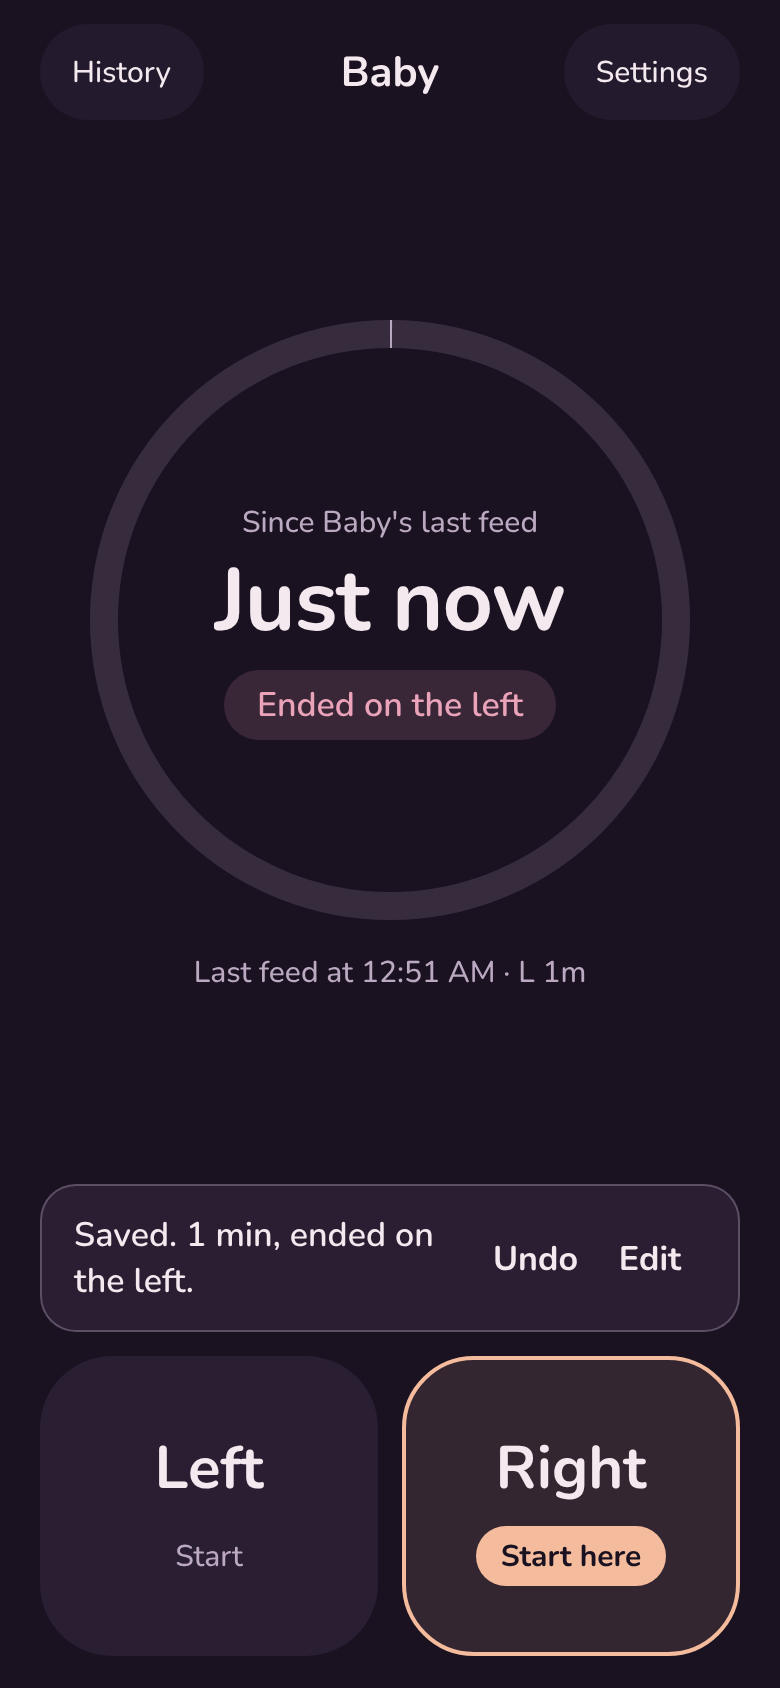
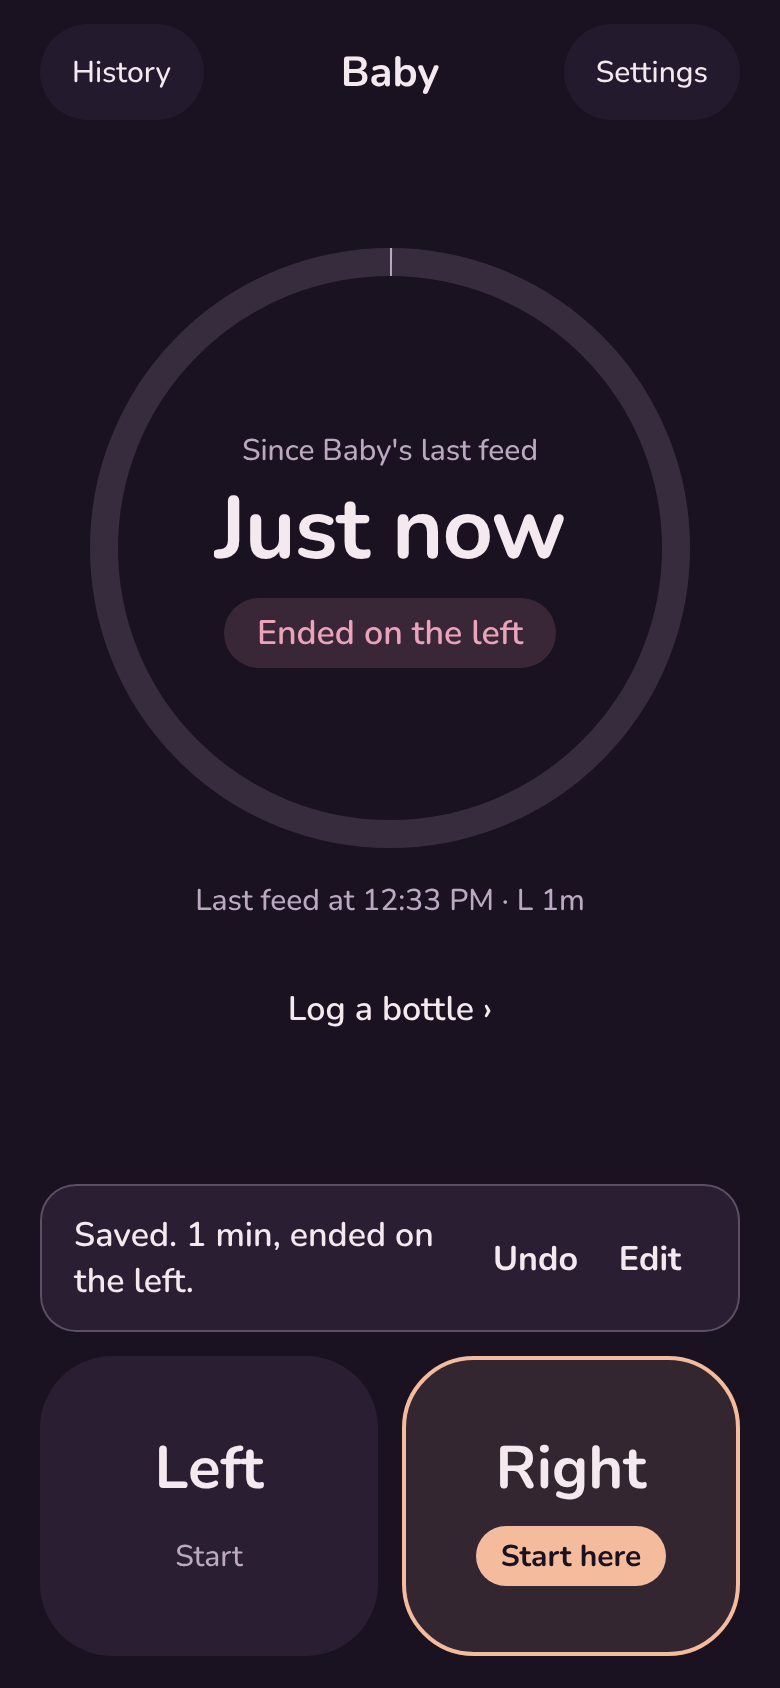
Phase 1: bottles, notes, week chart and timeline, baby age, two babies, daily reminders, phone theme
Claude-Session: https://claude.ai/code/session_01Uge6Tu9nfBMVmhGxJKiexz

Changed region(s): [[0.0923, 0.1232, 0.8923, 0.6161], [0.5538, 0.2464, 0.5846, 0.2773]]

diff --git a/src/components/Week.tsx b/src/components/Week.tsx
@@ -1,0 +1,140 @@
+import { useState } from 'react';
+import { Pressable, StyleSheet, View } from 'react-native';
+
+import { weekDays, type Block } from '../core/feeds';
+import { amount, dayLabel, span, spanWords } from '../core/format';
+import type { Feed, Units } from '../core/types';
+import { usePalette } from '../state/theme';
+import { radius, space, type, wash } from '../theme';
+import { Card, T } from './ui';
+
+const BAR_H = 120;
+const STRIP_H = 22;
+
+const short = (dayStart: number) => new Date(dayStart).toLocaleDateString(undefined, { weekday: 'short' });
+const feedsWord = (n: number) => `${n} ${n === 1 ? 'feed' : 'feeds'}`;
+
+/**
+ * The last seven days: time on the breast per day as bars, then each day's feeds laid on a 24 hour strip.
+ * Left and Right differ in height as well as colour, so they read apart without colour.
+ */
+export function Week({ feeds, now, units }: { feeds: Feed[]; now: number; units: Units }) {
+  const p = usePalette();
+  const days = weekDays(feeds, now);
+  const [picked, setPicked] = useState(days.length - 1);
+  const most = Math.max(...days.map((d) => d.breastMs), 1);
+  const sel = days[picked];
+
+  const summary = (i: number) => {
+    const d = days[i];
+    const bottles = d.bottleMl > 0 ? `, bottles ${amount(d.bottleMl, units)}` : '';
+    return `${dayLabel(d.dayStart, now)}, ${feedsWord(d.count)}, ${spanWords(d.breastMs)} on the breast${bottles}`;
+  };
+
+  const blockStyle = (b: Block) => {
+    const left = `${b.from * 100}%` as const;
+    const width = `${Math.max(b.to - b.from, 0.004) * 100}%` as const;
+    if (b.what === 'bottle') return [styles.block, { left, width: 3, top: 0, bottom: 0, backgroundColor: p.ink }];
+    if (b.what === 'L') return [styles.block, { left, width, top: 0, bottom: 0, backgroundColor: p.accent }];
+    return [styles.block, { left, width, top: STRIP_H * 0.4, bottom: 0, backgroundColor: p.peach }];
+  };
+
+  return (
+    <View style={{ gap: space.l, paddingTop: space.s }}>
+      <Card style={{ gap: space.m }}>
+        <T style={type.title} accessibilityRole="header">Time on the breast</T>
+        <T testID="week-picked" tone="muted" style={type.label} accessibilityLiveRegion="polite">
+          {dayLabel(sel.dayStart, now)} · {feedsWord(sel.count)} · {span(sel.breastMs) === 'just now' ? '0m' : span(sel.breastMs)}
+          {sel.bottleMl > 0 ? ` · Bottles ${amount(sel.bottleMl, units)}` : ''}
+        </T>
+        <View style={[styles.bars, { borderBottomColor: wash(p.muted, '40') }]}>
+          {days.map((d, i) => (
+            <Pressable
+              key={d.dayStart}
+              testID={`week-bar-${i}`}
+              onPress={() => setPicked(i)}
+              accessibilityRole="button"
+              accessibilityLabel={summary(i)}
+              accessibilityState={{ selected: i === picked }}
+              style={styles.barHit}
+            >
+              <View
+                style={[
+                  styles.bar,
+                  {
+                    height: Math.max((d.breastMs / most) * BAR_H, d.breastMs > 0 ? 4 : 0),
+                    backgroundColor: i === picked ? p.accent : wash(p.muted, 'A6'),
+                  },
+                ]}
+              />
+            </Pressable>
+          ))}
+        </View>
+        <View style={styles.barLabels}>
+          {days.map((d, i) => (
+            <T key={d.dayStart} tone={i === picked ? 'ink' : 'muted'} style={[type.small, styles.barLabel]} numberOfLines={1}>
+              {short(d.dayStart)}
+            </T>
+          ))}
+        </View>
+      </Card>
+
+      <Card style={{ gap: space.m }}>
+        <T style={type.title} accessibilityRole="header">Feeds through the day</T>
+        <View style={styles.legend}>
+          <Key color={p.accent} label="Left" />
+          <Key color={p.peach} label="Right" short />
+          <Key color={p.ink} label="Bottle" thin />
+        </View>
+        <View style={styles.hours}>
+          <View style={styles.dayCol} />
+          <View style={styles.hourRow}>
+            {['12am', '6am', '12pm', '6pm'].map((h) => (
+              <T key={h} tone="muted" style={[type.small, { flex: 1 }]}>{h}</T>
+            ))}
+          </View>
+        </View>
+        {[...days].reverse().map((d, ri) => {
+          const i = days.length - 1 - ri;
+          return (
+            <View key={d.dayStart} style={styles.dayRow} accessible accessibilityLabel={summary(i)}>
+              <T tone={i === picked ? 'ink' : 'muted'} style={[type.small, styles.dayCol]} numberOfLines={1}>{short(d.dayStart)}</T>
+              <View style={[styles.strip, { backgroundColor: wash(p.muted, '1F') }]}>
+                {[0.25, 0.5, 0.75].map((q) => (
+                  <View key={q} style={[styles.tick, { left: `${q * 100}%`, backgroundColor: wash(p.muted, '40') }]} />
+                ))}
+                {d.blocks.map((b, k) => <View key={k} style={blockStyle(b)} />)}
+              </View>
+            </View>
+          );
+        })}
+      </Card>
+    </View>
+  );
+}
+
+function Key({ color, label, short: low, thin }: { color: string; label: string; short?: boolean; thin?: boolean }) {
+  return (
+    <View style={styles.key}>
+      <View style={{ width: thin ? 3 : 14, height: low ? 8 : 14, alignSelf: 'flex-end', backgroundColor: color, borderRadius: 2 }} />
+      <T style={type.label}>{label}</T>
+    </View>
+  );
+}
+
+const styles = StyleSheet.create({
+  bars: { flexDirection: 'row', alignItems: 'flex-end', height: BAR_H + space.s, borderBottomWidth: 1 },
+  barHit: { flex: 1, height: '100%', justifyContent: 'flex-end', alignItems: 'center' },
+  bar: { width: '62%', borderTopLeftRadius: 4, borderTopRightRadius: 4 },
+  barLabels: { flexDirection: 'row', marginTop: -space.s },
+  barLabel: { flex: 1, textAlign: 'center' },
+  legend: { flexDirection: 'row', gap: space.l },
+  key: { flexDirection: 'row', alignItems: 'center', gap: space.xs },
+  hours: { flexDirection: 'row', gap: space.s },
+  hourRow: { flex: 1, flexDirection: 'row' },
+  dayRow: { flexDirection: 'row', alignItems: 'center', gap: space.s },
+  dayCol: { width: 40 },
+  strip: { flex: 1, height: STRIP_H, borderRadius: radius.row / 3, overflow: 'hidden' },
+  tick: { position: 'absolute', top: 0, bottom: 0, width: 1 },
+  block: { position: 'absolute', borderRadius: 2 },
+});

diff --git a/src/app/history.tsx b/src/app/history.tsx
@@ -1,9 +1,11 @@
 import { router } from 'expo-router';
-import { FlatList, Pressable, StyleSheet, View } from 'react-native';
+import { useState } from 'react';
+import { FlatList, Pressable, ScrollView, StyleSheet, View } from 'react-native';
 
-import { PillButton, PrimaryButton, Screen, SnackbarSlot, T, TopBar } from '../components/ui';
+import { Week } from '../components/Week';
+import { Choice, PillButton, PrimaryButton, Screen, SnackbarSlot, T, TopBar } from '../components/ui';
 import { feedStart, groupByDay, sideRuns, totalMs, type DayGroup } from '../core/feeds';
-import { dayLabel, mins, timeOf } from '../core/format';
+import { amount, dayLabel, milkWord, mins, timeOf } from '../core/format';
 import type { Feed } from '../core/types';
 import { useApp, useNow } from '../state/AppState';
 import { usePalette } from '../state/theme';
@@ -13,7 +15,8 @@ type Row = { kind: 'day'; group: DayGroup } | { kind: 'feed'; feed: Feed; first:
 
 /** Every saved feed, grouped by the day it started, newest first. */
 export default function History() {
-  const { feeds } = useApp();
+  const { feeds, settings } = useApp();
+  const [view, setView] = useState<'list' | 'week'>('list');
   const now = useNow(30_000);
   const p = usePalette();
   const groups = groupByDay(feeds, now);
@@ -27,6 +30,19 @@ export default function History() {
   return (
     <Screen>
       <TopBar left={<PillButton label="Back" onPress={() => router.back()} testID="back" />} title="History" />
+      <View style={styles.toggle}>
+        <Choice<'list' | 'week'>
+          label="View"
+          value={view}
+          onChange={setView}
+          options={[{ value: 'list', label: 'List' }, { value: 'week', label: 'Week' }]}
+        />
+      </View>
+      {view === 'week' ? (
+        <ScrollView contentContainerStyle={styles.list}>
+          <Week feeds={feeds} now={now} units={settings.units} />
+        </ScrollView>
+      ) : (
       <FlatList
         data={rows}
         keyExtractor={(r) => (r.kind === 'day' ? `d${r.group.key}` : r.feed.id)}
@@ -45,11 +61,33 @@ export default function History() {
                 <T style={type.title}>{dayLabel(g.dayStart, now)}</T>
                 <T tone="muted" style={type.label}>
                   {g.count} {g.count === 1 ? 'feed' : 'feeds'} · Left {mins(g.leftMs)}m · Right {mins(g.rightMs)}m
+                  {g.bottleMl > 0 ? ` · Bottles ${amount(g.bottleMl, settings.units)}` : ''}
                 </T>
               </View>
             );
           }
           const f = item.feed;
+          if (f.bottle) {
+            const what = `Bottle ${amount(f.bottle.amountMl, settings.units)} of ${milkWord(f.bottle.milk)}`;
+            return (
+              <Pressable
+                testID={`feed-row-${f.id}`}
+                onPress={() => router.push(`/feed/${f.id}`)}
+                accessibilityRole="button"
+                accessibilityLabel={`${timeOf(feedStart(f))}, ${what}${f.note ? `, note: ${f.note}` : ''}`}
+                accessibilityHint="Opens this bottle to edit or delete it"
+                style={({ pressed }) => [styles.row, { backgroundColor: p.surface, opacity: pressed ? 0.8 : 1 }]}
+              >
+                <T style={[type.body, styles.time]}>{timeOf(feedStart(f))}</T>
+                <View style={styles.chips}>
+                  <View style={[styles.chip, { backgroundColor: wash(p.muted, '2E') }]}>
+                    <T style={type.small}>{what}</T>
+                  </View>
+                </View>
+                {f.note ? <T tone="muted" style={[type.label, styles.note]} numberOfLines={2}>{f.note}</T> : null}
+              </Pressable>
+            );
+          }
           const sideList = sideRuns(f, now);
           const runs = sideList.map((r) => `${r.side === 'L' ? 'left' : 'right'} ${mins(r.ms)} minutes`).join(', then ');
           return (
@@ -57,7 +95,7 @@ export default function History() {
               testID={`feed-row-${f.id}`}
               onPress={() => router.push(`/feed/${f.id}`)}
               accessibilityRole="button"
-              accessibilityLabel={`${timeOf(feedStart(f))}, ${runs}, ${mins(totalMs(f, now))} minutes in total`}
+              accessibilityLabel={`${timeOf(feedStart(f))}, ${runs}, ${mins(totalMs(f, now))} minutes in total${f.note ? `, note: ${f.note}` : ''}`}
               accessibilityHint="Opens this feed to edit or delete it"
               style={({ pressed }) => [
                 styles.row,
@@ -73,10 +111,12 @@ export default function History() {
                 ))}
               </View>
               <T tone="muted" style={[type.body, { fontVariant: ['tabular-nums'] }]}>{mins(totalMs(f, now))}m</T>
+              {f.note ? <T tone="muted" style={[type.label, styles.note]} numberOfLines={2}>{f.note}</T> : null}
             </Pressable>
           );
         }}
       />
+      )}
       <View style={[styles.bottom, { borderTopColor: wash(p.muted, '33') }]}>
         <SnackbarSlot />
         <PrimaryButton label="Add a feed" onPress={() => router.push('/feed/new')} testID="add-feed" />
@@ -91,6 +131,8 @@ const styles = StyleSheet.create({
   row: { flexDirection: 'row', alignItems: 'center', alignContent: 'center', flexWrap: 'wrap', columnGap: space.m, rowGap: space.xs, minHeight: 64, paddingHorizontal: space.l, paddingVertical: space.m, borderRadius: radius.row, marginBottom: space.s },
   chips: { flex: 1, flexDirection: 'row', flexWrap: 'wrap', gap: space.xs },
   chip: { borderRadius: 999, paddingHorizontal: space.s + 2, paddingVertical: 3 },
+  toggle: { paddingHorizontal: space.side, paddingBottom: space.s },
+  note: { flexBasis: '100%', fontStyle: 'italic' },
   time: { minWidth: 84, fontVariant: ['tabular-nums'] },
   empty: { flex: 1, alignItems: 'center', justifyContent: 'center', gap: space.s, paddingTop: 120 },
   bottom: { paddingHorizontal: space.side, gap: space.m, paddingTop: space.m, borderTopWidth: StyleSheet.hairlineWidth * 2 },

diff --git a/scripts/shots-web.js b/scripts/shots-web.js
@@ -104,6 +104,38 @@ async function main() {
     await p.click('[data-testid="open-settings"]');
     await p.waitForTimeout(400);
     await shot('15-settings');
+
+    // Phase 1: bottles, notes, babies, week view
+    const day0 = new Date(now); day0.setHours(0, 0, 0, 0);
+    const born = new Date(day0); born.setDate(born.getDate() - 17);
+    const twoBabies = { babies: [{ id: 'b1', name: 'Daphne', birthday: born.getTime() }, { id: 'b2', name: 'Ivy', birthday: born.getTime() }], activeBabyId: 'b1', units: 'ml', clockReminders: [{ hour: 21, minute: 0 }] };
+    const withBottle = [
+      ...sampleFeeds(now - 40 * MIN).map((f, i) => (i === 1 ? { ...f, note: 'Sleepy, woke for the second side' } : f)),
+      { id: 'bottle1', status: 'saved', segments: [], deletedAt: null, kind: 'bottle', bottle: { at: now - 25 * MIN, amountMl: 90, milk: 'breast' }, note: 'Dad did this one' },
+    ];
+    const daphne = { babies: [twoBabies.babies[0]], activeBabyId: 'b1', units: 'ml', clockReminders: [] };
+    await load(withBottle, daphne);
+    await shot('16-home-after-bottle');
+    await p.click('[data-testid="open-history"]');
+    await p.waitForTimeout(400);
+    await shot('17-history-bottle-note');
+    await p.click('[data-testid="choice-week"]:visible');
+    await p.waitForTimeout(400);
+    await shot('18-week');
+    await p.click('[data-testid="back"]');
+    await p.waitForTimeout(300);
+    await p.click('[data-testid="log-bottle"]');
+    await p.waitForTimeout(400);
+    await shot('19-log-bottle');
+    await load(withBottle, twoBabies);
+    await shot('20-home-two-babies');
+    await p.click('[data-testid="open-settings"]');
+    await p.waitForTimeout(400);
+    await shot('21-settings-babies');
+    await p.mouse.move(195, 500);
+    await p.mouse.wheel(0, 900);
+    await p.waitForTimeout(300);
+    await shot('22-settings-more');
     await ctx.close();
   }
   await b.close();

diff --git a/src/app/index.tsx b/src/app/index.tsx
@@ -120,10 +120,11 @@ export default function Home() {
           ) : last ? (
             <View style={styles.under}>
               {last.bottle ? (
-                <T tone="muted" style={[type.label, styles.centreText]}>
-                  Last feed at {timeOf(feedStart(last))} · Bottle {amount(last.bottle.amountMl, settings.units)}
-                  {lastSide ? ` · Last side ${sideWord(endSide(lastSide))}` : ''}
-                </T>
+                lastSide && (
+                  <T tone="muted" style={[type.label, styles.centreText]}>
+                    Last breast feed ended on the {sideWord(endSide(lastSide))}
+                  </T>
+                )
               ) : (
                 <T tone="muted" style={[type.label, styles.centreText]}
                   accessibilityLabel={`Last feed at ${timeOf(feedStart(last))}: ${sideRuns(last, now).map((r) => `${sideWord(r.side)} ${mins(r.ms)} minutes`).join(', then ')}`}>

diff --git a/src/components/ui.tsx b/src/components/ui.tsx
@@ -103,7 +103,7 @@ export function Choice<V extends string>({ options, value, onChange, label }: { 
       {options.map((o) => {
         const on = o.value === value;
         return (
-          <Pressable key={o.value} onPress={() => onChange(o.value)} accessibilityRole="radio" accessibilityState={{ checked: on }}
+          <Pressable key={o.value} testID={`choice-${o.value}`} onPress={() => onChange(o.value)} accessibilityRole="radio" accessibilityState={{ checked: on }}
             style={[styles.choiceItem, on && { backgroundColor: p.accent }]}>
             <T tone={on ? 'onAccent' : 'ink'}>{o.label}</T>
           </Pressable>

diff --git a/docs/guide.md b/docs/guide.md
@@ -30,10 +30,6 @@ You do this once; it takes about 30 minutes, mostly waiting. Everything runs on 
 
 TestFlight builds last 90 days. To renew, run steps 4 and 5 again; her feeds stay on the phone.
 
-## Put it on an Android phone
-
-On the phone, open the **Nuzzle for Android** release in the GitHub repository (Releases, nuzzle-android), download **nuzzle.apk**, open it, and allow installing from this source when asked.
-
 ## Using it
 
 * **Start a feed:** tap **Left** or **Right** at the bottom. The side to start on has a honey outline and says **Start here**.
@@ -43,6 +39,12 @@ On the phone, open the **Nuzzle for Android** release in the GitHub repository (
 * **Reminder:** after the first feed, Nuzzle asks if she wants a reminder. It comes 2 hours after a feed starts unless she changes it in **Settings** (1 to 4 hours). It never arrives while a feed is running.
 * **Lock screen:** while a feed runs, a quiet notice shows which side and since when.
 * **History:** every feed by day, with the minutes on each side. Tap a feed to edit or delete it. **Add a feed** logs one she forgot.
-* **Settings:** baby's name, reminder, Night or Day theme, and **Export** (a spreadsheet of every feed, through the phone's share menu).
+* **Bottles:** tap **Log a bottle** on Home. Choose the amount (ml or oz, set in Settings) and breast milk or formula. A bottle counts as the last feed for the timer and the reminder; the Left or Right suggestion still follows the last breast feed.
+* **Notes:** every feed and bottle has a Note box in its editor. Notes show in History and under the last feed on Home.
+* **Week view:** in History, tap **Week** for a bar per day of time on the breast (tap a bar for that day's numbers) and a 24 hour strip per day showing when each feed happened. Left is the tall rose block, Right the shorter peach block, a bottle a thin line.
+* **Age:** set the birthday in Settings and Home shows how old she is under her name.
+* **Two babies:** **Add another baby** in Settings. Home then shows a switch between them; each baby has their own feeds, side suggestion and reminder.
+* **Daily reminders:** Settings, **Also remind me every day at**, for a reminder at a set clock time (up to four).
+* **Settings:** babies, reminders, bottle units, Night, Day or Phone theme (Phone follows the iPhone's dark mode), and **Export** (a spreadsheet of every feed, through the phone's share menu).
 
 Everything stays on her phone. Nothing is sent anywhere, and the app works with no signal.

diff --git a/docs/features.md b/docs/features.md
@@ -39,10 +39,18 @@ Sources: the eight screenshots Philip took of Huckleberry on his wife's phone (O
 | Timer on the lock screen | An ongoing notification while a feed runs. Checked against the complexity rule before adding. | Nice to have |
 | Export history to CSV | Shares a CSV through the phone's share sheet. | Nice to have |
 | Start side as well as end side | Shown in history ("L then R"); answers a common complaint at no cost. | Nice to have (free with the segment model) |
-| Bottle, solids, nappies, sleep, pumping, growth | Not built. | Out of scope |
-| Accounts, sync between two phones | Not built; sharing comes in a later version. | Out of scope |
+| Bottle feeds | Phase 1: amount in ml or oz, breast milk or formula. Counts as the last feed; the side suggestion follows the last breast feed. | Added |
+| Notes on a feed | Phase 1: a note on any feed or bottle, shown in History and on Home. | Added |
+| Week chart and timeline | Phase 1: History, Week. Bars of time on the breast per day, plus a 24 hour strip per day. | Added |
+| Baby's age | Phase 1: birthday in Settings; Home shows "2 weeks 3 days old". | Added |
+| More than one baby | Phase 1: each baby has their own feeds, suggestion and reminder. Old feeds belong to the first baby. | Added |
+| Theme follows the phone | Phase 1: Night, Day or Phone. | Added |
+| Solids, nappies, sleep, pumping, growth | Not built. | Out of scope |
+| Sync between two phones, cloud backup | Phase 2, with Supabase. | Planned |
+| Home screen widget, lock screen timer | Phase 3. | Planned |
+| Apple Watch, Siri | Phase 4. | Planned |
 | Sleep plans, AI logging, upgrades, ads, analytics | Not built. | Out of scope |
-| Reminder at a fixed clock time | Not built: the brief asks for a reminder after the last feed only. | Out of scope |
+| Reminder at a fixed clock time | Phase 1: up to four daily times, as well as the reminder after a feed. | Added |
 
 ## Sources
 
